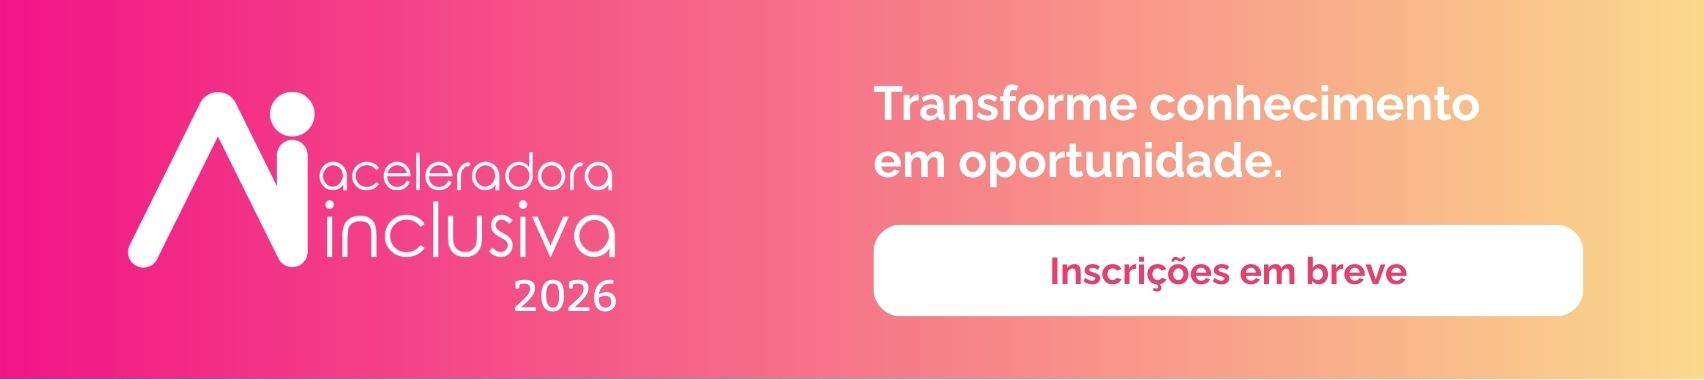
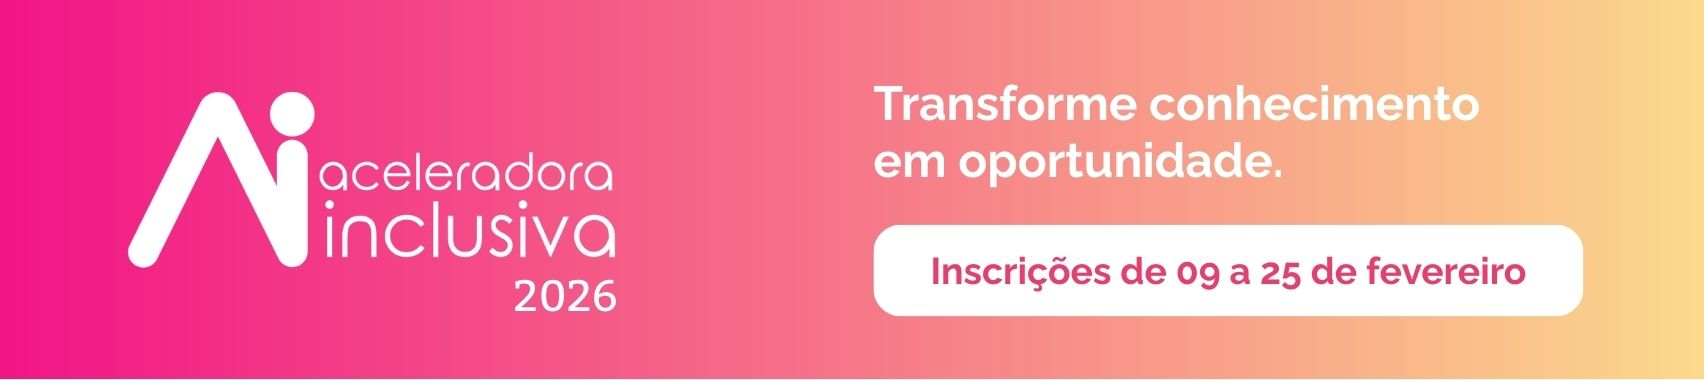
update dates

Changed region(s): [[0.5288, 0.6658, 0.902, 0.7526]]

diff --git a/src/utils/constants.ts b/src/utils/constants.ts
@@ -119,41 +119,37 @@ export const PARTNERS_ASSETS = [
 
 export const COURSE_STEPS = [
   {
-    date: "15 a 31 de janeiro",
+    date: "09 a 25 de fevereiro",
     description: "Inscrições",
     color: "#e60c5c",
   },
   {
-    date: "01 a 14 de fevereiro",
-    description: "Análise das Documentações e Chamada para Entrevistas",
+    date: "26 de fevereiro a 13 de março",
+    description: "Validação das inscrições",
     color: "#f3911f",
   },
   {
-    date: "14 a 18 de fevereiro",
-    description: "Recesso de Carnaval",
+    date: "16 a 27 de março",
+    description: "Entrevistas e dinâmicas on-line",
     color: "#e60c5c",
   },
   {
-    date: "19 a 28 de fevereiro",
-    description: "Entrevistas e Desafio Técnico",
+    date: "30 de março a 03 de abril",
+    description: "Divulgação e confirmação das pessoas selecionadas",
     color: "#f3911f",
   },
   {
-    date: "03 a 07 de março",
-    description: "Divulgação das Selecionadas",
+    date: "06 a 10 de abril",
+    description: "Acolhimento e realização das matrículas",
     color: "#e60c5c",
   },
   {
-    date: "10 a 14 de março",
-    description: "Matrícula",
-    color: "#f3911f",
-  },
-  {
-    date: "17 de março",
+    date: "13 de abril",
     description: "Início das Aulas",
-    color: "#e60c5c",
+    color: "#f3911f",
   },
 ];
+
 
 export const FAQ_ACCORDIONS = [
   {
